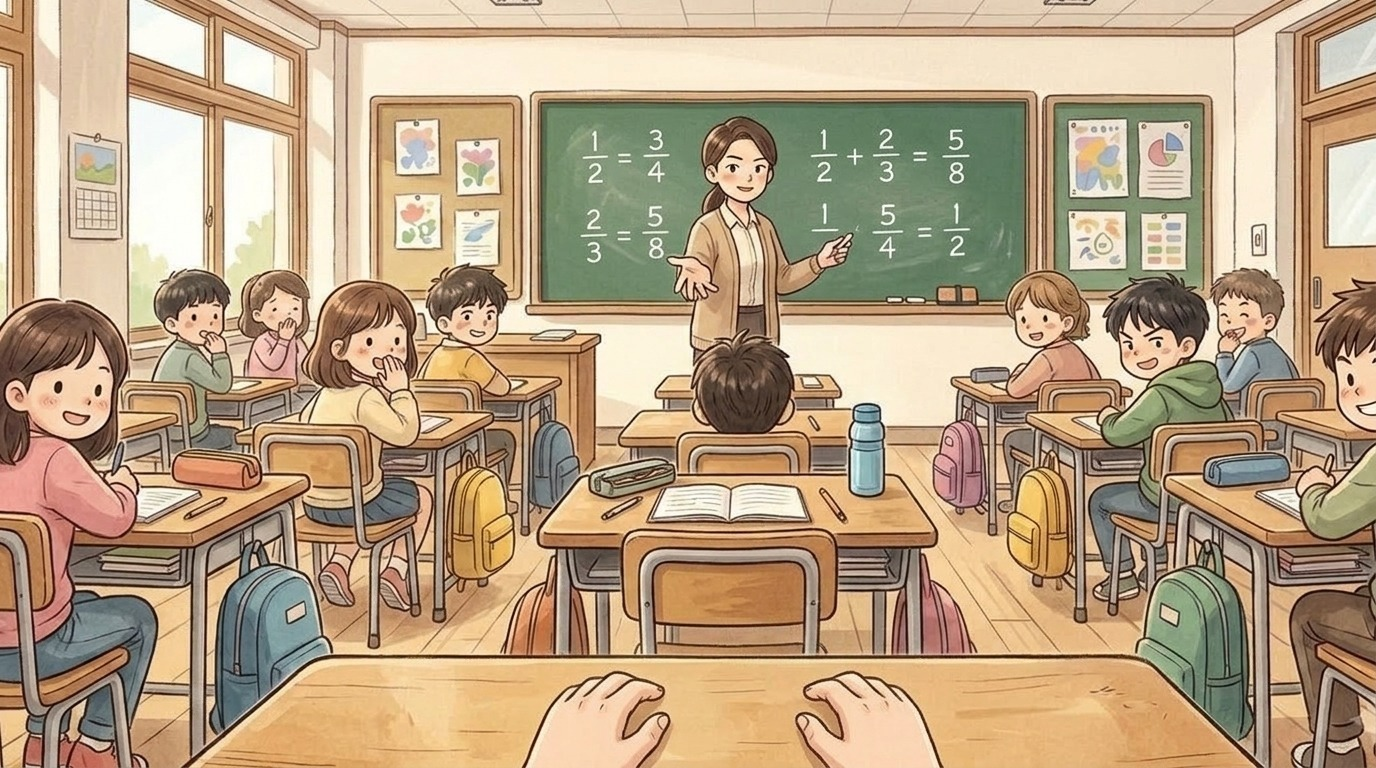
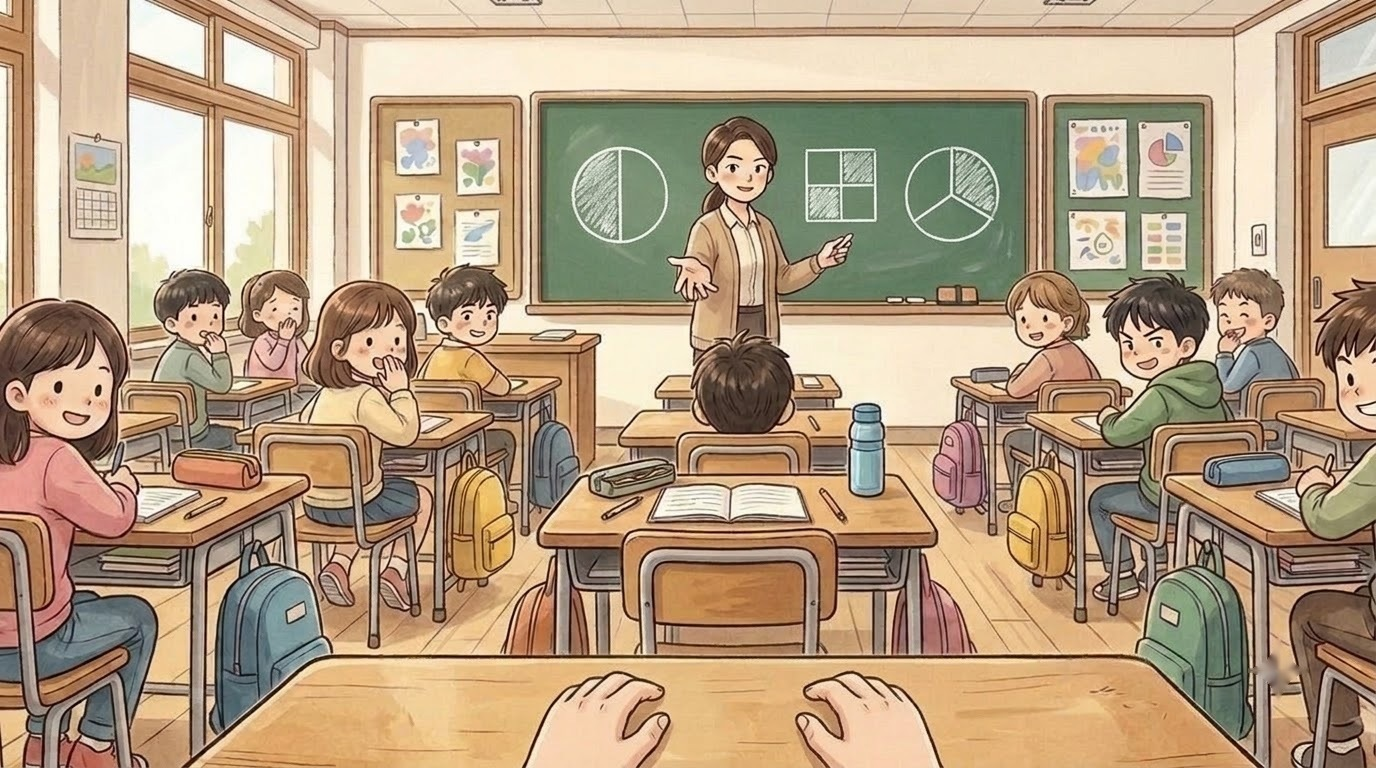
하늘 5일차 수학 칠판(haneul_04·04c): 틀린 분수 숫자식 대신 분수 도형(반 칠한 원·3/4 네모·3조각 원)으로(그림 세션 Flow·메인 비교)

Changed region(s): [[0.5625, 0.1562, 0.75, 0.3438], [0.4062, 0.1875, 0.5, 0.3438], [0.9062, 0.8438, 0.9375, 0.9062]]

diff --git a/index.html b/index.html
@@ -119,14 +119,14 @@ body,button{word-break:keep-all;overflow-wrap:break-word}
 <div id="fader"></div>
 <script>
 // same address, newest version: if the page this phone has kept is older than the one online, fetch the new one and reopen
-const BUILD='1109102012';
+const BUILD='1109102331';
 try{fetch(location.pathname,{cache:'no-store'}).then(r=>r.text()).then(t=>{const m=t.match(/const BUILD='(\d+)'/);if(m&&m[1]!==BUILD&&sessionStorage.getItem('upd')!==m[1]){sessionStorage.setItem('upd',m[1]);fetch(location.pathname,{cache:'reload'}).then(()=>location.reload())}}).catch(()=>{})}catch(e){}
 </script>
-<script src="i18n.js?v=1109102012"></script>
-<script src="i18n_prologue_v2.js?v=1109102012"></script>
-<script src="day2/i18n_engine.js?v=1109102012"></script>
-<script src="day2/data.js?v=1109102012"></script>
-<script src="day3/data.js?v=1109102012"></script>
+<script src="i18n.js?v=1109102331"></script>
+<script src="i18n_prologue_v2.js?v=1109102331"></script>
+<script src="day2/i18n_engine.js?v=1109102331"></script>
+<script src="day2/data.js?v=1109102331"></script>
+<script src="day3/data.js?v=1109102331"></script>
 <script>
 // ---------- data ----------
 const MW=1672,MH=941,KID=180;
@@ -569,36 +569,36 @@ function pickHero(){const m=document.getElementById('modal'),c=document.getEleme
  c.innerHTML=`<h2>${tr('전학생 반장되기')}</h2><p>${tr('한국말이 아직 서툰 전학생,<br>반장 선거에 나가다.')}</p><p style="margin-top:14px">${tr('누구로 할까요?')}</p>${(()=>{const s=loadSave();return s&&s.day>=2&&s.mode===UI+'-'+LANG?`<p><button class="big" id="cont">${tr('{n}일차부터 이어 하기').replace('{n}',s.day)}</button></p>`:''})()}<div class="pick heroes"><button data-h="hero_f"><img src="faces/hero_f_smile.jpg" alt="여자 주인공">${heroName(1)}</button><button data-h="hero_m"><img src="faces/hero_m_smile.jpg" alt="남자 주인공">${heroName(0)}</button></div>`;
  m.classList.add('on');{const cb=document.getElementById('cont');if(cb)cb.onclick=()=>{const s=loadSave();HERO=s.hero;Object.assign(HEART,s.heart||{});(s.found||[]).forEach(k=>FOUND.add(k));HEART_D1={...HEART};chime();(typeof contGame==='function'?contGame(s):startDay(Math.min(s.day,Object.keys(window.D3||{}).length?3:2)))}}c.querySelectorAll('.pick button').forEach(b=>b.onclick=()=>{HERO=b.dataset.h;m.classList.remove('on');chime();bgm('day');load('home_am');say([['nar','','이사 온 다음 날 아침. 아직 풀지 못한 상자들이 쌓여 있다.'],['think','sad','(오늘부터 새 학교야. 여기 말도 아직 서툰데…….)'],['think','smile','({m}한테 인사하고 학교 가야지.)']],morning)})}
 </script>
-<script src="day2/engine.js?v=1109102012"></script>
-<script src="day2/ep_minho.js?v=1109102012"></script>
-<script src="day2/meet.js?v=1109102012"></script>
-<script src="day2/ep_sua.js?v=1109102012"></script>
-<script src="day2/ep_hangyeol.js?v=1109102012"></script>
-<script src="day2/ep_siwoo.js?v=1109102012"></script>
-<script src="day2/ep_haram.js?v=1109102012"></script>
-<script src="day2/ep_jiho.js?v=1109102012"></script>
-<script src="day2/ep_hyeeun.js?v=1109102012"></script>
-<script src="day2/ep_haneul.js?v=1109102012"></script>
-<script src="day2/ep_junho.js?v=1109102012"></script>
-<script src="day2/ep_yuna.js?v=1109102012"></script>
-<script src="day2/ep_yena.js?v=1109102012"></script>
-<script src="day2/ep_haeun.js?v=1109102012"></script>
-<script src="day2/ep_youngmin.js?v=1109102012"></script>
-<script src="day2/ep_seah.js?v=1109102012"></script>
-<script src="day2/ep_jihoon.js?v=1109102012"></script>
-<script src="words_ja_ru.js?v=1109102012"></script>
-<script src="day2/mybag.js?v=1109102012"></script>
-<script src="day2/wordpics.js?v=1109102012"></script>
-<script src="day2/spots.js?v=1109102012"></script>
-<script src="day2/textfit.js?v=1109102012"></script>
-<script src="day2/tester.js?v=1109102012"></script>
-<script src="day2/ux.js?v=1109102012"></script>
-<script src="day2/tapword.js?v=1109102012"></script>
-<script src="day2/review.js?v=1109102012"></script>
-<script src="day2/plane.js?v=1109102012"></script>
-<script src="day2/bubble.js?v=1109102012"></script>
-<script src="day2/ep_ending.js?v=1109102012"></script>
-<script src="day2/ending.js?v=1109102012"></script>
+<script src="day2/engine.js?v=1109102331"></script>
+<script src="day2/ep_minho.js?v=1109102331"></script>
+<script src="day2/meet.js?v=1109102331"></script>
+<script src="day2/ep_sua.js?v=1109102331"></script>
+<script src="day2/ep_hangyeol.js?v=1109102331"></script>
+<script src="day2/ep_siwoo.js?v=1109102331"></script>
+<script src="day2/ep_haram.js?v=1109102331"></script>
+<script src="day2/ep_jiho.js?v=1109102331"></script>
+<script src="day2/ep_hyeeun.js?v=1109102331"></script>
+<script src="day2/ep_haneul.js?v=1109102331"></script>
+<script src="day2/ep_junho.js?v=1109102331"></script>
+<script src="day2/ep_yuna.js?v=1109102331"></script>
+<script src="day2/ep_yena.js?v=1109102331"></script>
+<script src="day2/ep_haeun.js?v=1109102331"></script>
+<script src="day2/ep_youngmin.js?v=1109102331"></script>
+<script src="day2/ep_seah.js?v=1109102331"></script>
+<script src="day2/ep_jihoon.js?v=1109102331"></script>
+<script src="words_ja_ru.js?v=1109102331"></script>
+<script src="day2/mybag.js?v=1109102331"></script>
+<script src="day2/wordpics.js?v=1109102331"></script>
+<script src="day2/spots.js?v=1109102331"></script>
+<script src="day2/textfit.js?v=1109102331"></script>
+<script src="day2/tester.js?v=1109102331"></script>
+<script src="day2/ux.js?v=1109102331"></script>
+<script src="day2/tapword.js?v=1109102331"></script>
+<script src="day2/review.js?v=1109102331"></script>
+<script src="day2/plane.js?v=1109102331"></script>
+<script src="day2/bubble.js?v=1109102331"></script>
+<script src="day2/ep_ending.js?v=1109102331"></script>
+<script src="day2/ending.js?v=1109102331"></script>
 <script>
 // the goal shows big for a few seconds, then folds into a small pill (tap it to open it again)
 {const g=document.getElementById('goal');let t=null;const big=()=>{g.classList.remove('mini');clearTimeout(t);t=setTimeout(()=>g.classList.add('mini'),4000)};
